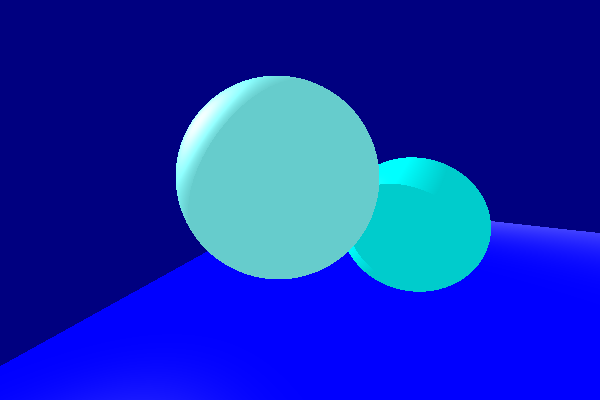
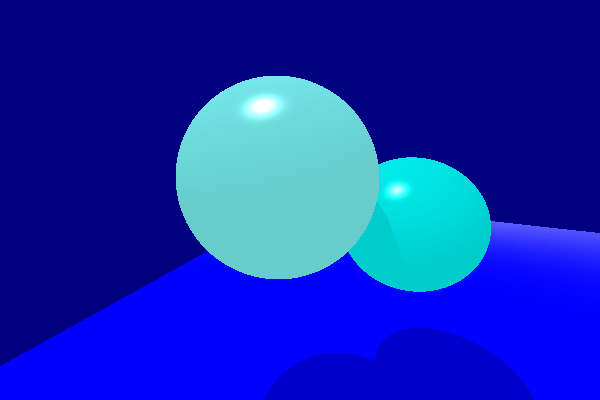
better specular

diff --git a/assn3.html b/assn3.html
@@ -9,9 +9,9 @@
 </head>
 
 <body>
-    <header>Basic Ray Tracing</header>
+    <header>Illumination Models</header>
 
-    <h2>Target Image</h2>
+    <h2>Target Image (Phong)</h2>
     <img img class="map" src="imgs/assn3.png" width=auto>
 
 </body>
